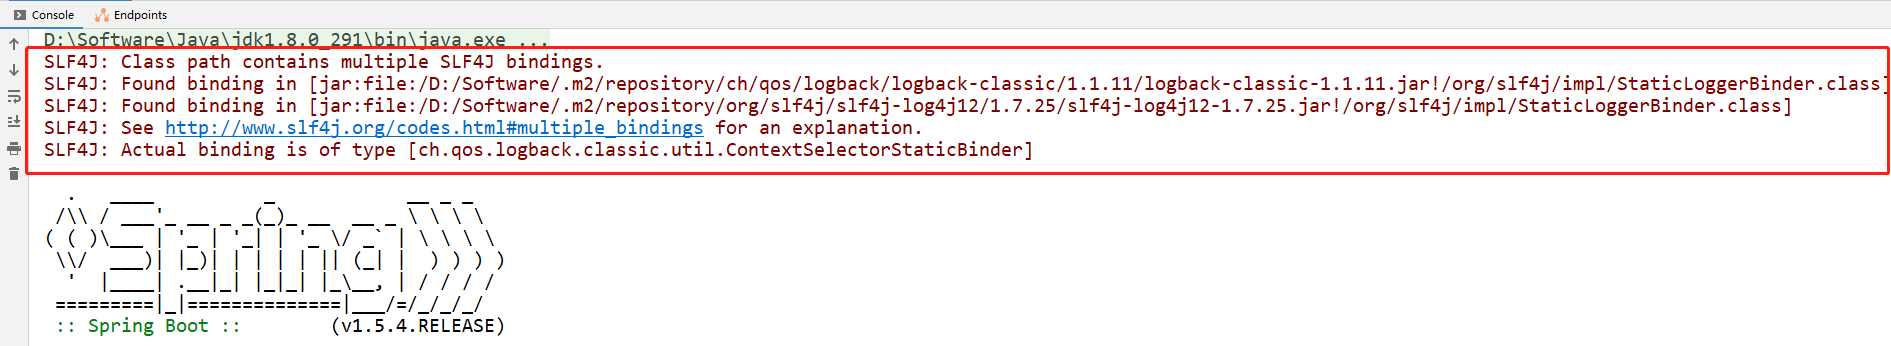
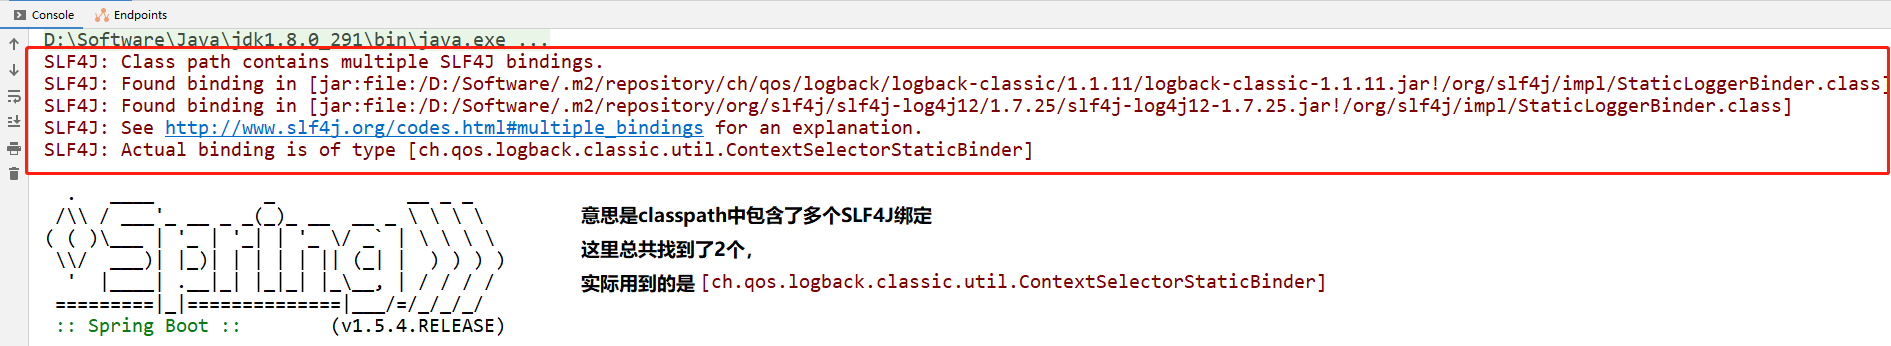
SLF4J：Class path contains multiple SLF4J bindings.md

Changed region(s): [[0.2808, 0.7803, 0.7176, 0.8671], [0.2808, 0.578, 0.4992, 0.6647], [0.312, 0.6936, 0.4056, 0.7514]]

diff --git a/日志/SLF4J：Class path contains multiple SLF4J bindings.md b/日志/SLF4J：Class path contains multiple SLF4J bindings.md
@@ -14,11 +14,132 @@ SLF4J: Actual binding is of type [ch.qos.logback.classic.util.ContextSelectorSta
 
 
 
-# 解决方案 + 原因讲解：
+# 解决方案 + 原因讲解
 
 [【java】20分钟搞清log4j/logback/log4j2/slf4j || 如何统一日志标准](https://www.bilibili.com/video/BV11J411d7Gp)
 
 [上面视频配套的github文档](https://github.com/sunwu51/notebook/blob/master/19.11/log_java%E6%97%A5%E5%BF%97%E6%A1%86%E6%9E%B6.md)
+
+
+
+# slf4j 设计模式
+
+1、`门面模式`、`适配器模式`。详见：[【java】slf4j中的适配器与桥接是怎样工作的？](https://www.bilibili.com/video/BV1FJ411R78C)
+
+2、问题：为什么`log4j-over-slf4j`重写`log4j`中所有类，就能在项目中使用`log4j`和`slf4j`中的类呢？
+
+- 这个里面使用的是迷惑战术，这样系统中使用log4j的类，编译时不会报错，但是重写后的这些类内部实现时，却将日志悄悄代理到了SLF4J相关接口。
+
+- 能使用`log4j`的的原因视频中已经讲了：类加载时，加载了重写的类名，log4j中的同名类，就不会被加载了。在重写的方法中，全部委托给`slf4j`来处理日志。`slf4j`底层可以绑定到新项目下的`logback`。
+- 能用`slf4j`：因为`log4j-over-slf4j`依赖了`slf4j`，所以项目中也能使用`slf4j`的类。
+- [在github文档上也能详解了这个问题](https://github.com/sunwu51/notebook/blob/master/19.11/log_java%E6%97%A5%E5%BF%97%E6%A1%86%E6%9E%B6.md#%E5%8E%9F%E7%90%86)
+
+3、`log4j-over-slf4j`适配器模式。
+
+> 画外音：
+>
+> 上面   [【java】slf4j中的适配器与桥接是怎样工作的？](https://www.bilibili.com/video/BV1FJ411R78C)    视频中06:43讲解的`log4j-over-slf4j`使用了`桥接模式`，我个人理解是使用的是`适配器模式`。[适配器模式](https://gitee.com/anxiaole/spring-framework/tree/5.0.x/core-spring-patterns#2-%E7%BB%93%E6%9E%84%E6%A8%A1%E5%BC%8F)
+>
+> 简单说说个人这样理解的思路：
+>
+> 个人感觉`slf4j`和`log4j`虽然都是日志，但是他俩本身`不兼容`。那为了能让两个不兼容的东西，在一起愉快的玩耍，所以他俩中间有个适配器，适配器去兼容两方：
+>
+> ![image-20210623164646006](images/image-20210623164646006.png)
+>
+> 而`桥接模式`中只有两个角色：一个是`抽象`、一个是`实现`。*（`抽象`就相当于本篇的说的`规范`）*
+>
+> 使用桥接模式，可以**将抽象和实现解耦，让两边能独立变化**。适用于跨平台支持、插件、驱动程序driver等。
+>
+> ![image-20210623184207503](images/image-20210623184207503.png)
+>
+> 结合上面的关系图，我们分析一下slf4j：
+>
+> - slf4j-api 是抽象层。用户在使用抽象层的API时，无需关注具体的实现是什么。
+> - logback / log4j / java.util.logging / slf4j-simple 这些都是`实现`。而且可以随意选择使用哪种`实现`。只要`实现`符合`抽象`的要求，`实现`层可以随意优化/升级。
+>
+> 综上，我个人理解为：`log4j-over-slf4j`使用的是`适配器模式`。
+
+4、桥接模式。详见下面。
+
+
+
+# 桥接模式-绑定
+
+`slf4j`是`门面`，是规范。`logback`是实现。
+
+虽然logback中的 `ch.qos.logback.classic.Logger` 直接实现了 `org.slf4j.Logger`。但是slf4j并没有和logback强绑定。我们开发这也并没有通过配置文件或其他任何配置方式来指定使用哪种实现。
+
+**`slf4j`使用的`桥接模式`，`规范`和`实现`之间是如何进行绑定到一起的呢？**
+
+*（下图：slf4j绑定的主流程）*
+
+![image-20210623140252218](images/image-20210623140252218.png)
+
+桥接模式 —— `slf4j`规范和其实现的’桥‘，就是  `org.slf4j.impl.StaticLoggerBinder`类。
+
+slf4j规范中规定了：每种`slf4j实现`都需要在jar中定义一个  `org.slf4j.impl.StaticLoggerBinder`类，
+
+slf4j在`初始化`时：
+
+- 会调用 `org.slf4j.LoggerFactory#findPossibleStaticLoggerBinderPathSet`，使用类加载器找到classpath中所有的 `org/slf4j/impl/StaticLoggerBinder.class` 文件。
+
+- 如果存在多个 `org/slf4j/impl/StaticLoggerBinder.class` 文件在classpath中被找到，就打印 ：
+
+  ```
+  SLF4J: Class path contains multiple SLF4J bindings.
+  SLF4J: Found binding in [jar:file:/D:/Software/.m2/repository/ch/qos/logback/logback-classic/1.1.11/logback-classic-1.1.11.jar!/org/slf4j/impl/StaticLoggerBinder.class]
+  SLF4J: Found binding in [jar:file:/D:/Software/.m2/repository/org/slf4j/slf4j-log4j12/1.7.25/slf4j-log4j12-1.7.25.jar!/org/slf4j/impl/StaticLoggerBinder.class]
+  SLF4J: See http://www.slf4j.org/codes.html#multiple_bindings for an explanation.
+  // 这里注意：在项目中实际选用了哪个slf4j实现，在此并没有打印。而是在 reportActualBinding(staticLoggerBinderPathSet); 方法中打印的。
+  ```
+
+*（下图：找到classpath中所有的`org/slf4j/impl/StaticLoggerBinder.class`）*
+
+![image-20210623135331016](images/image-20210623135331016.png)
+
+
+
+
+
+
+**如果存在多个`slf4j`实现，具体选择哪个呢？就是下面这句话：**
+
+```java
+// the next line does the binding 下面这一样，执行绑定逻辑。
+StaticLoggerBinder.getSingleton();
+```
+
+在第一张图中我们说了，此静态方法就是`slf4j`和`具体实现`之间的桥梁。
+
+> 画外音：【桥接模式】这里简单说一下桥接模式的好处：
+>
+> 【API的使用方，无需关注复杂的实现逻辑，只需要根据规范的步骤来使用API就行了。】
+>
+> 说人话：程序员在使用slf4j时，无需关注底层具体实现，也无需配置使用哪种实现，只需要使用对应的API就完了。
+>
+> 回想一下：使用日志框架，我们只配置过日志输出等级、输出格式等，并没有配置`slf4j`使用的哪种实现。只需要在maven引入对应的依赖。使用`logback`就在maven中引入`logback`的依赖；使用`log4j`就引入`log4j`的依赖就行了。
+>
+> *另外：[jdbc的java.sql.DriverManager 也是使用的桥接模式](https://www.cnblogs.com/yougewe/p/12460685.html)。*
+
+![image-20210623142508782](images/image-20210623142508782.png)
+
+你可能会说：等等，单例模式已经理解了，但是还是没有说明：**如果存在多个`slf4j`实现时，具体选择哪个呢？**这个选择过程呢！？选择过程！！并没有看到啊！！
+
+解答：其实这个选择过程是jvm类加载帮我们做的：我们上面说了：在每个`slf4j`的实现框架中，比如`logback.jar`或`slf4j-log4j12.jar`，都需要定义一个`org.slf4j.impl.StaticLoggerBinder`类。注意这里的 `类名及包名` 都是一样的：也就是两个jar包中都有  `org.slf4j.impl.StaticLoggerBinder`类，那jvm在类加载时，加载完第一个jar包中的类后，第二个jar包中的同名类，就不会加载了。正是使用类加载的这个机制，来实现的`选择`过程。
+
+
+
+
+
+**绑定完-日志输出实际使用的Binder**
+
+```java
+reportActualBinding(staticLoggerBinderPathSet);
+```
+
+![image-20210623151519549](images/image-20210623151519549.png)
+
+到这里`slf4j`的初始化就完事了，在之后，使用`slf4j`时，具体日志实现是`logback`。
 
 
 
@@ -29,8 +150,6 @@ SLF4J: Actual binding is of type [ch.qos.logback.classic.util.ContextSelectorSta
 
 
 # 其他资料
-
-[【java】slf4j中的适配器与桥接是怎样工作的？](https://www.bilibili.com/video/BV1FJ411R78C)
 
 [slf4j&logback源码解析：从源码中我们能学到什么](https://www.bilibili.com/video/BV1KD4y197Jf)
 
